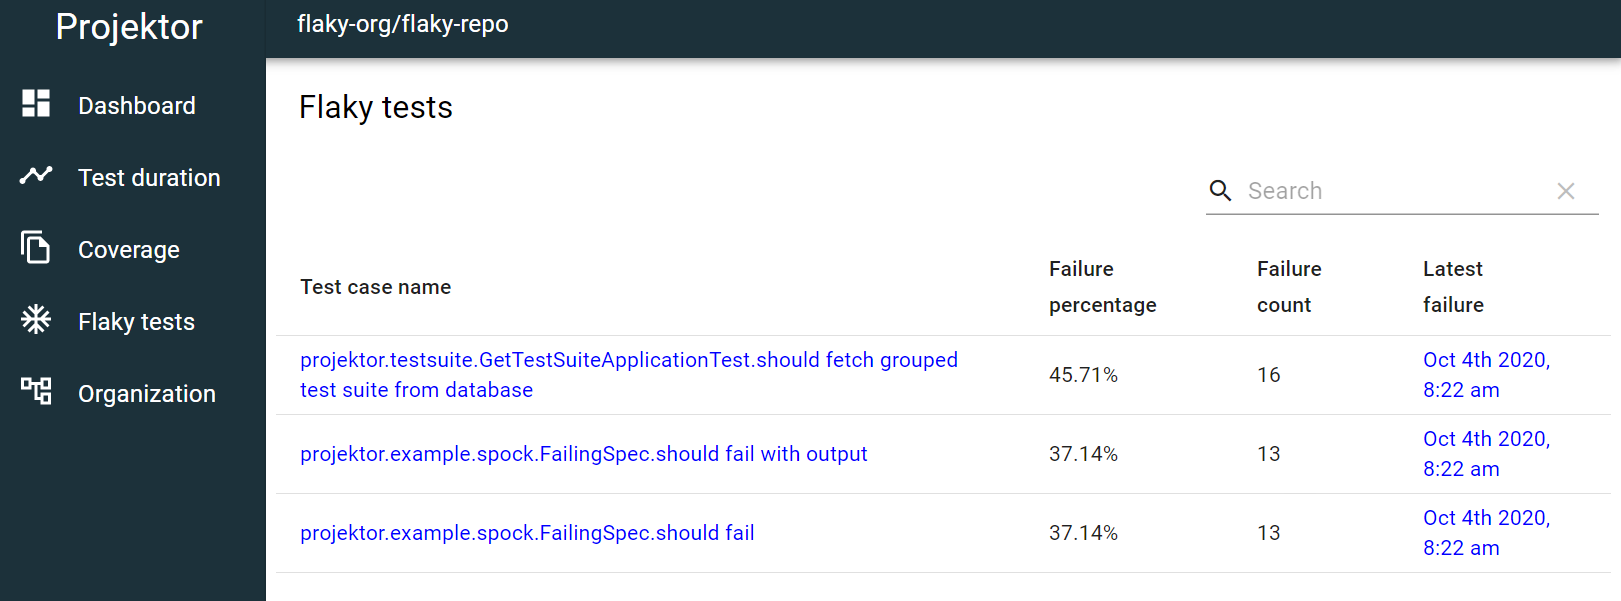
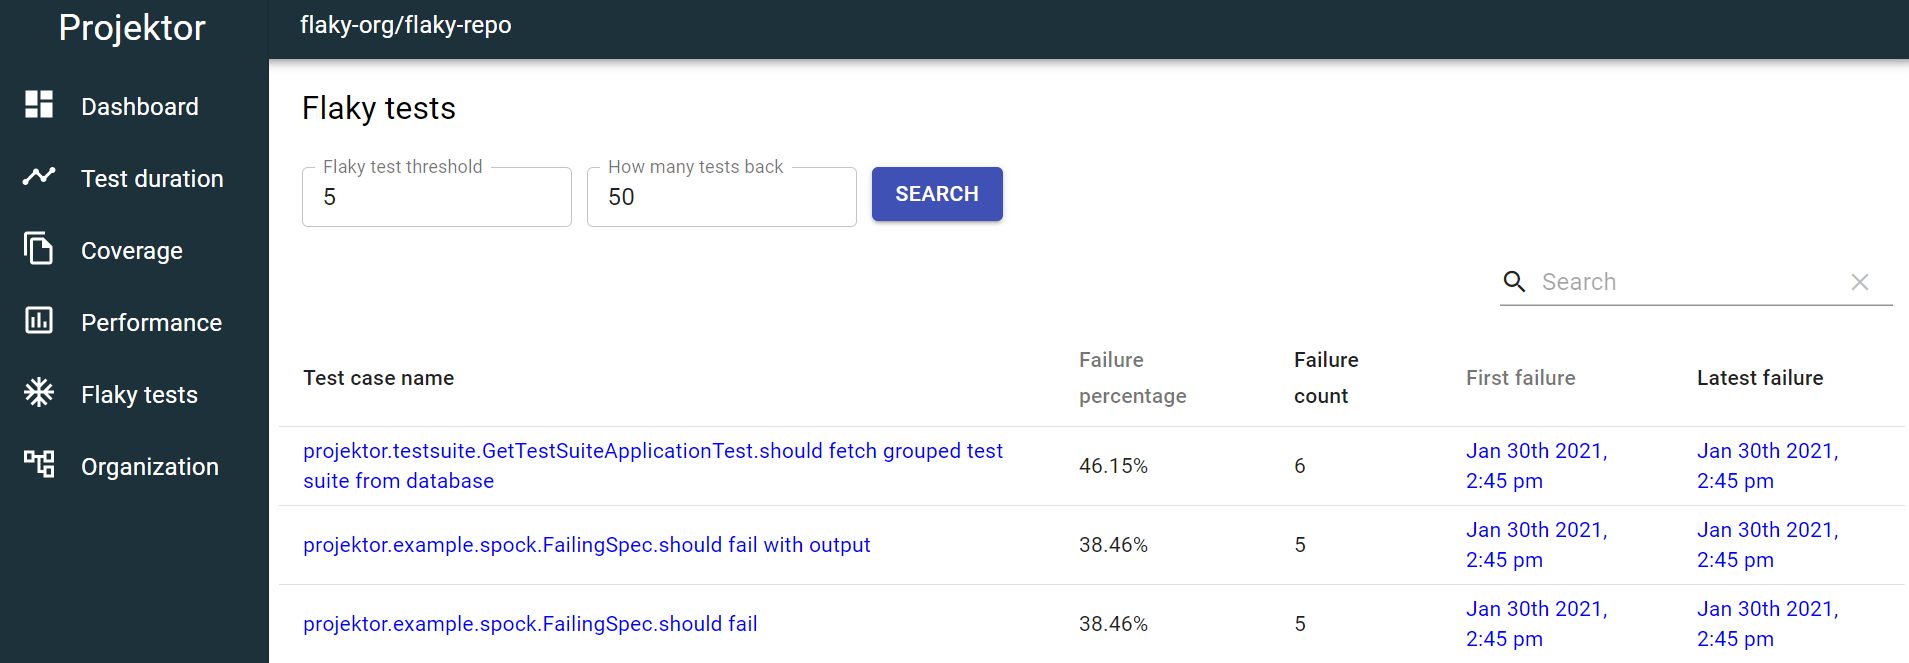
Updating flaky test screenshot

diff --git a/content/docs/flaky-test/index.md b/content/docs/flaky-test/index.md
@@ -18,7 +18,8 @@ your test suite and save your sanity.
 
 ![Flaky tests](/images/flaky-tests.png "Flaky tests")
 
-Projektor considers a test flaky if it fails at least 5 times out of the last 50 builds.
+By default Projektor considers a test flaky if it fails at least 5 times out of the last 50 builds,
+but you can change those values as needed for your project.
 
 To get to the flaky tests page, click on the "Repository" link on the left side nav in a test report.
 
